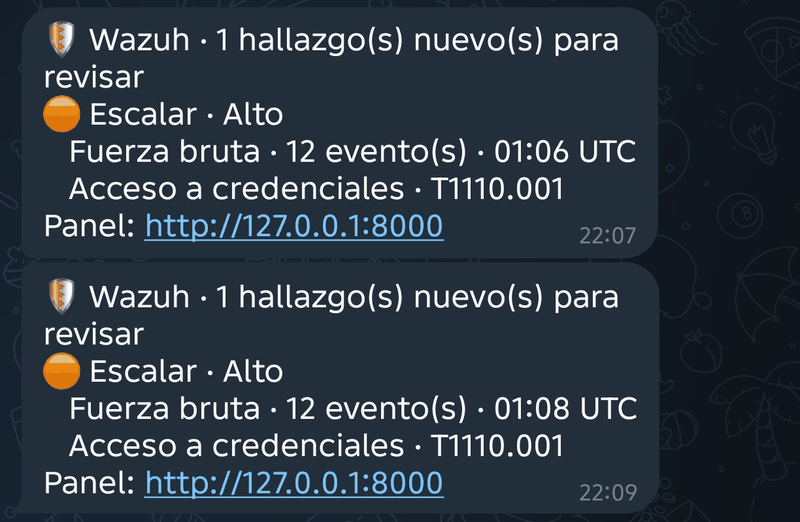
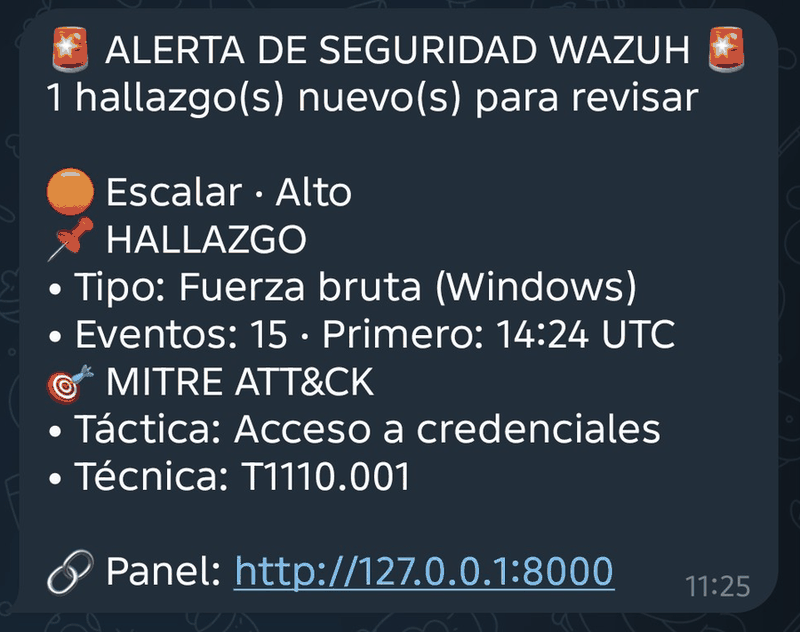
Add files via upload

diff --git a/docs/WAZUH.md b/docs/WAZUH.md
@@ -119,7 +119,7 @@ Un aviso tiene este aspecto:
 🔗 Panel: http://127.0.0.1:8000
 ```
 
-![Dos avisos de Telegram de fuerza bruta: severidad, tipo de hallazgo, cantidad de eventos, hora, táctica y técnica MITRE](../img/telegram-aviso.png)
+![Aviso de Telegram de fuerza bruta con secciones: severidad y recomendación, HALLAZGO (tipo, eventos y hora del primero), MITRE ATT&CK (táctica y técnica) y enlace al panel](../img/telegram-aviso.png)
 
 Cada hallazgo es un bloque con su severidad y la recomendación del motor, y las secciones **📌 HALLAZGO** y **🎯 MITRE ATT&CK**: el **tipo** (genérico: «Fuerza bruta», «Credenciales»…), cuántos eventos lo sustentan, la hora del primero (UTC), la táctica y la técnica MITRE.
 
